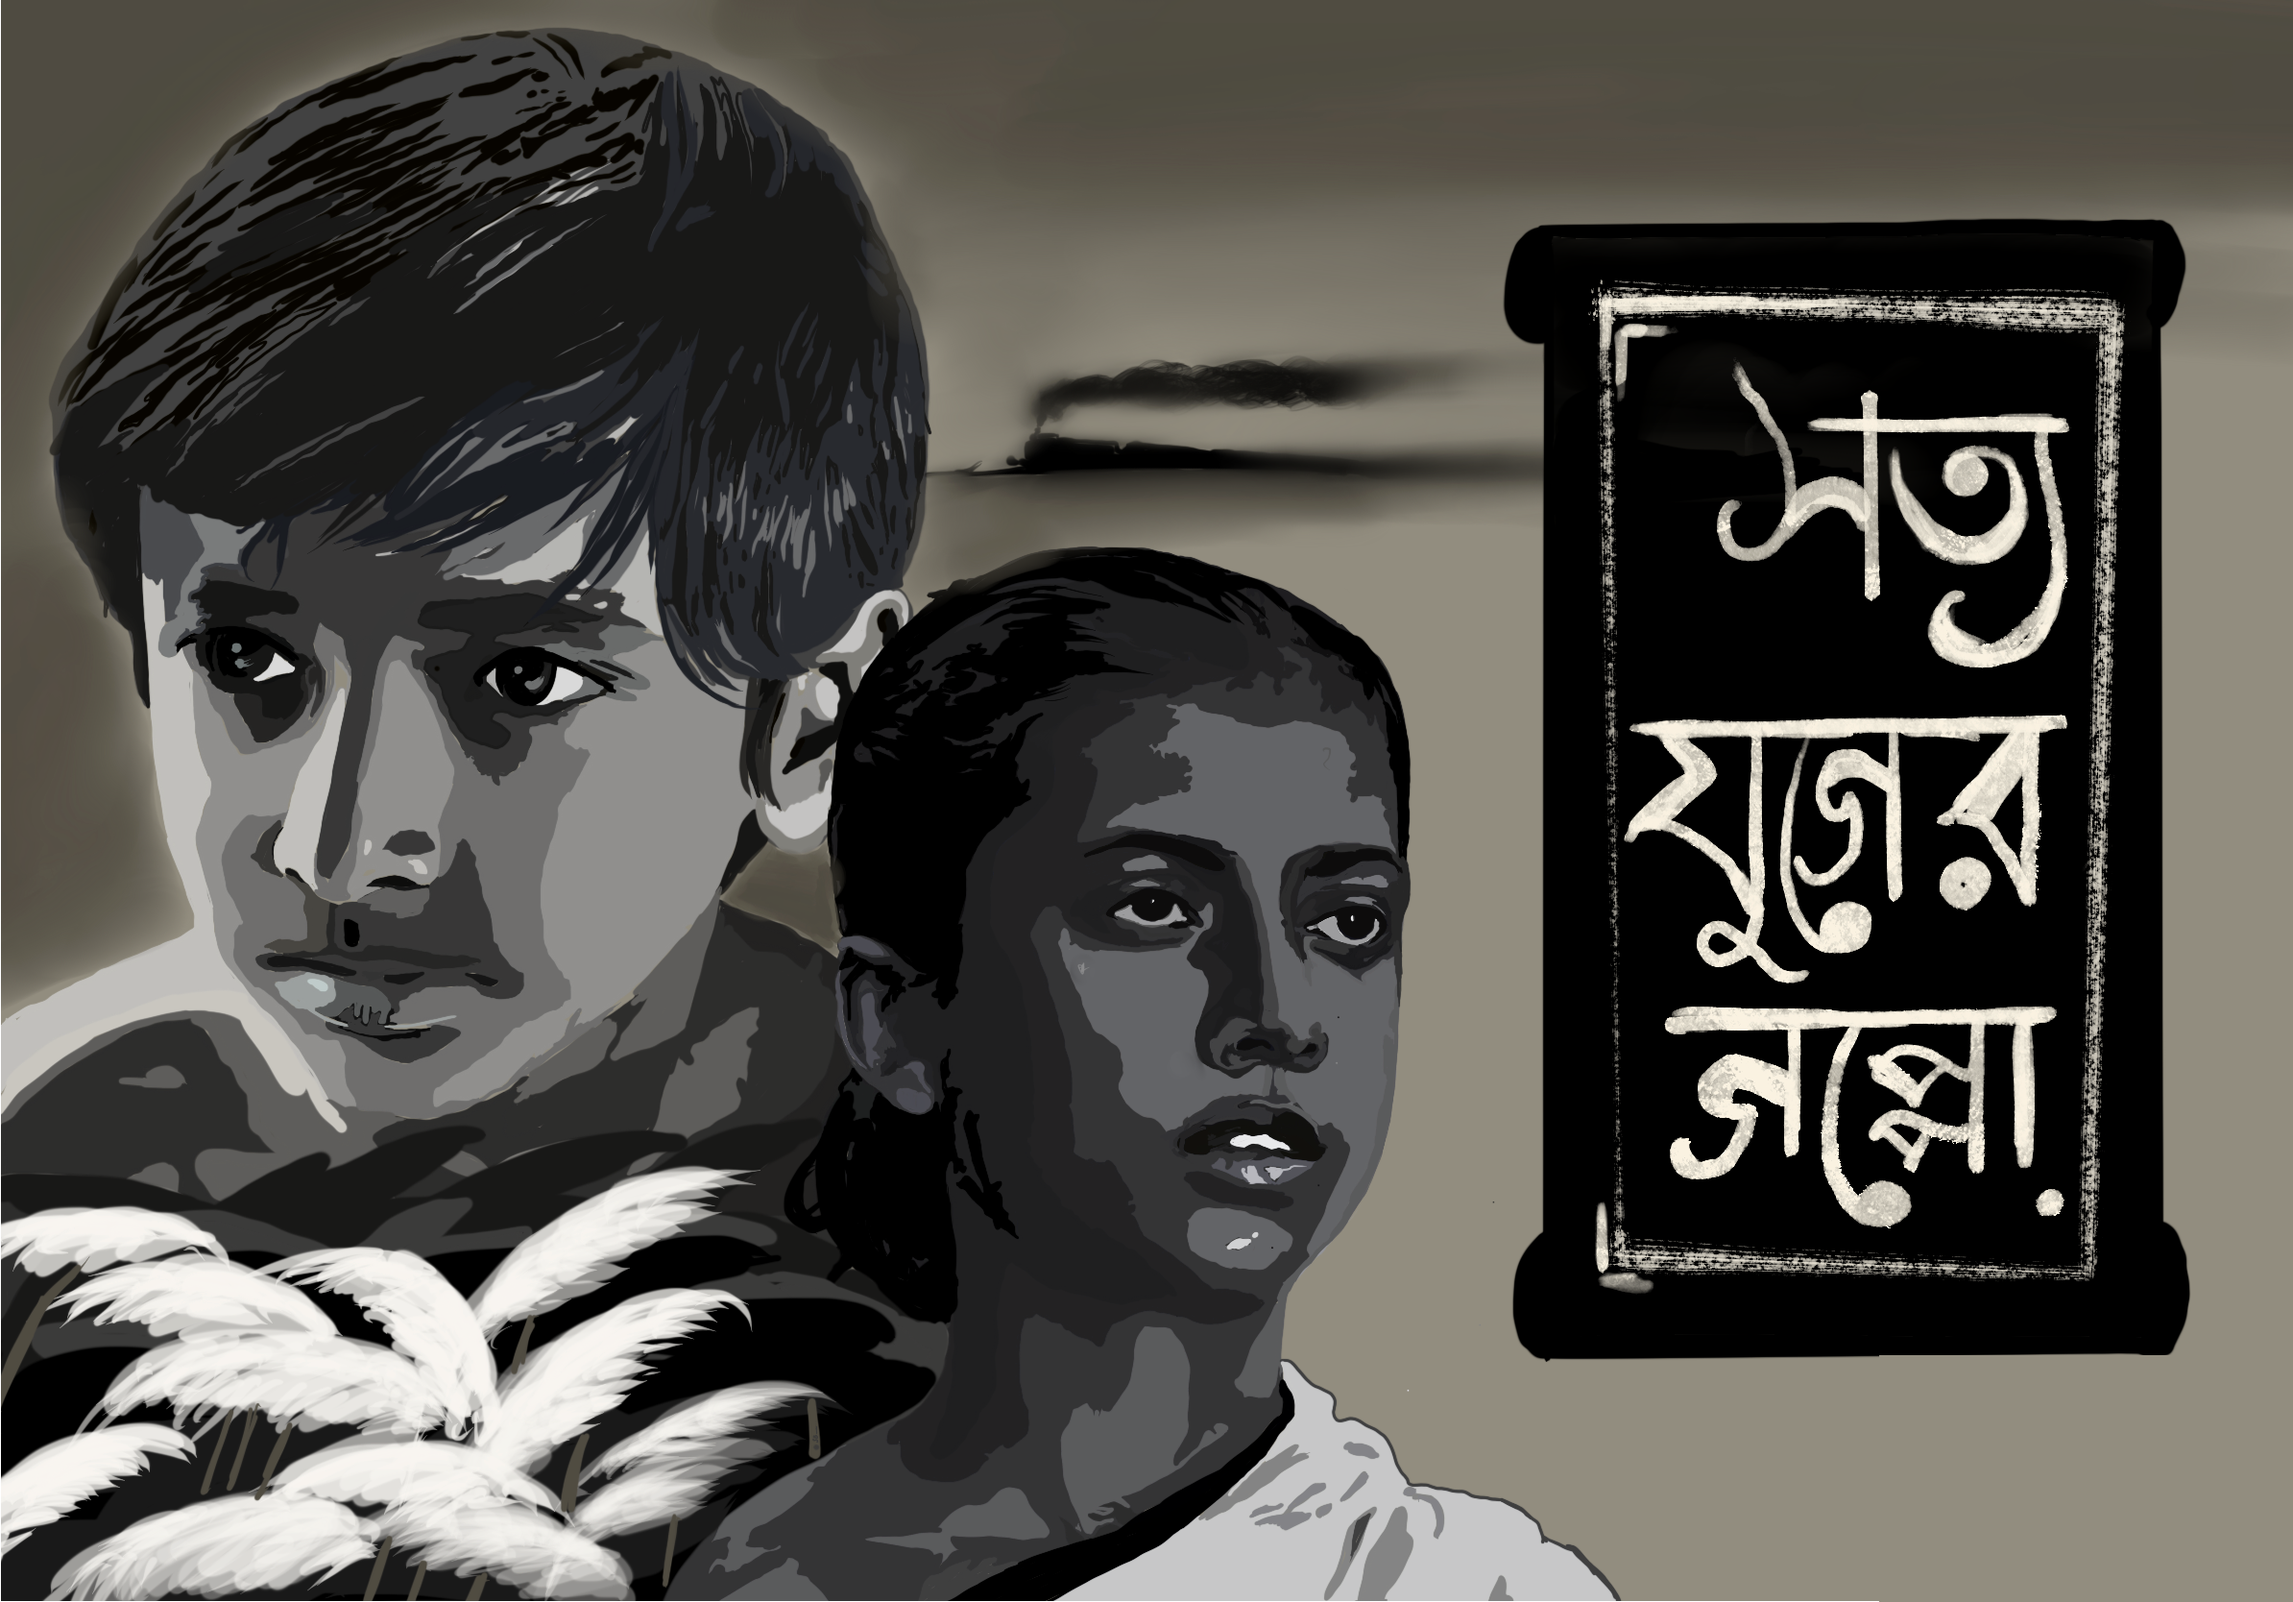
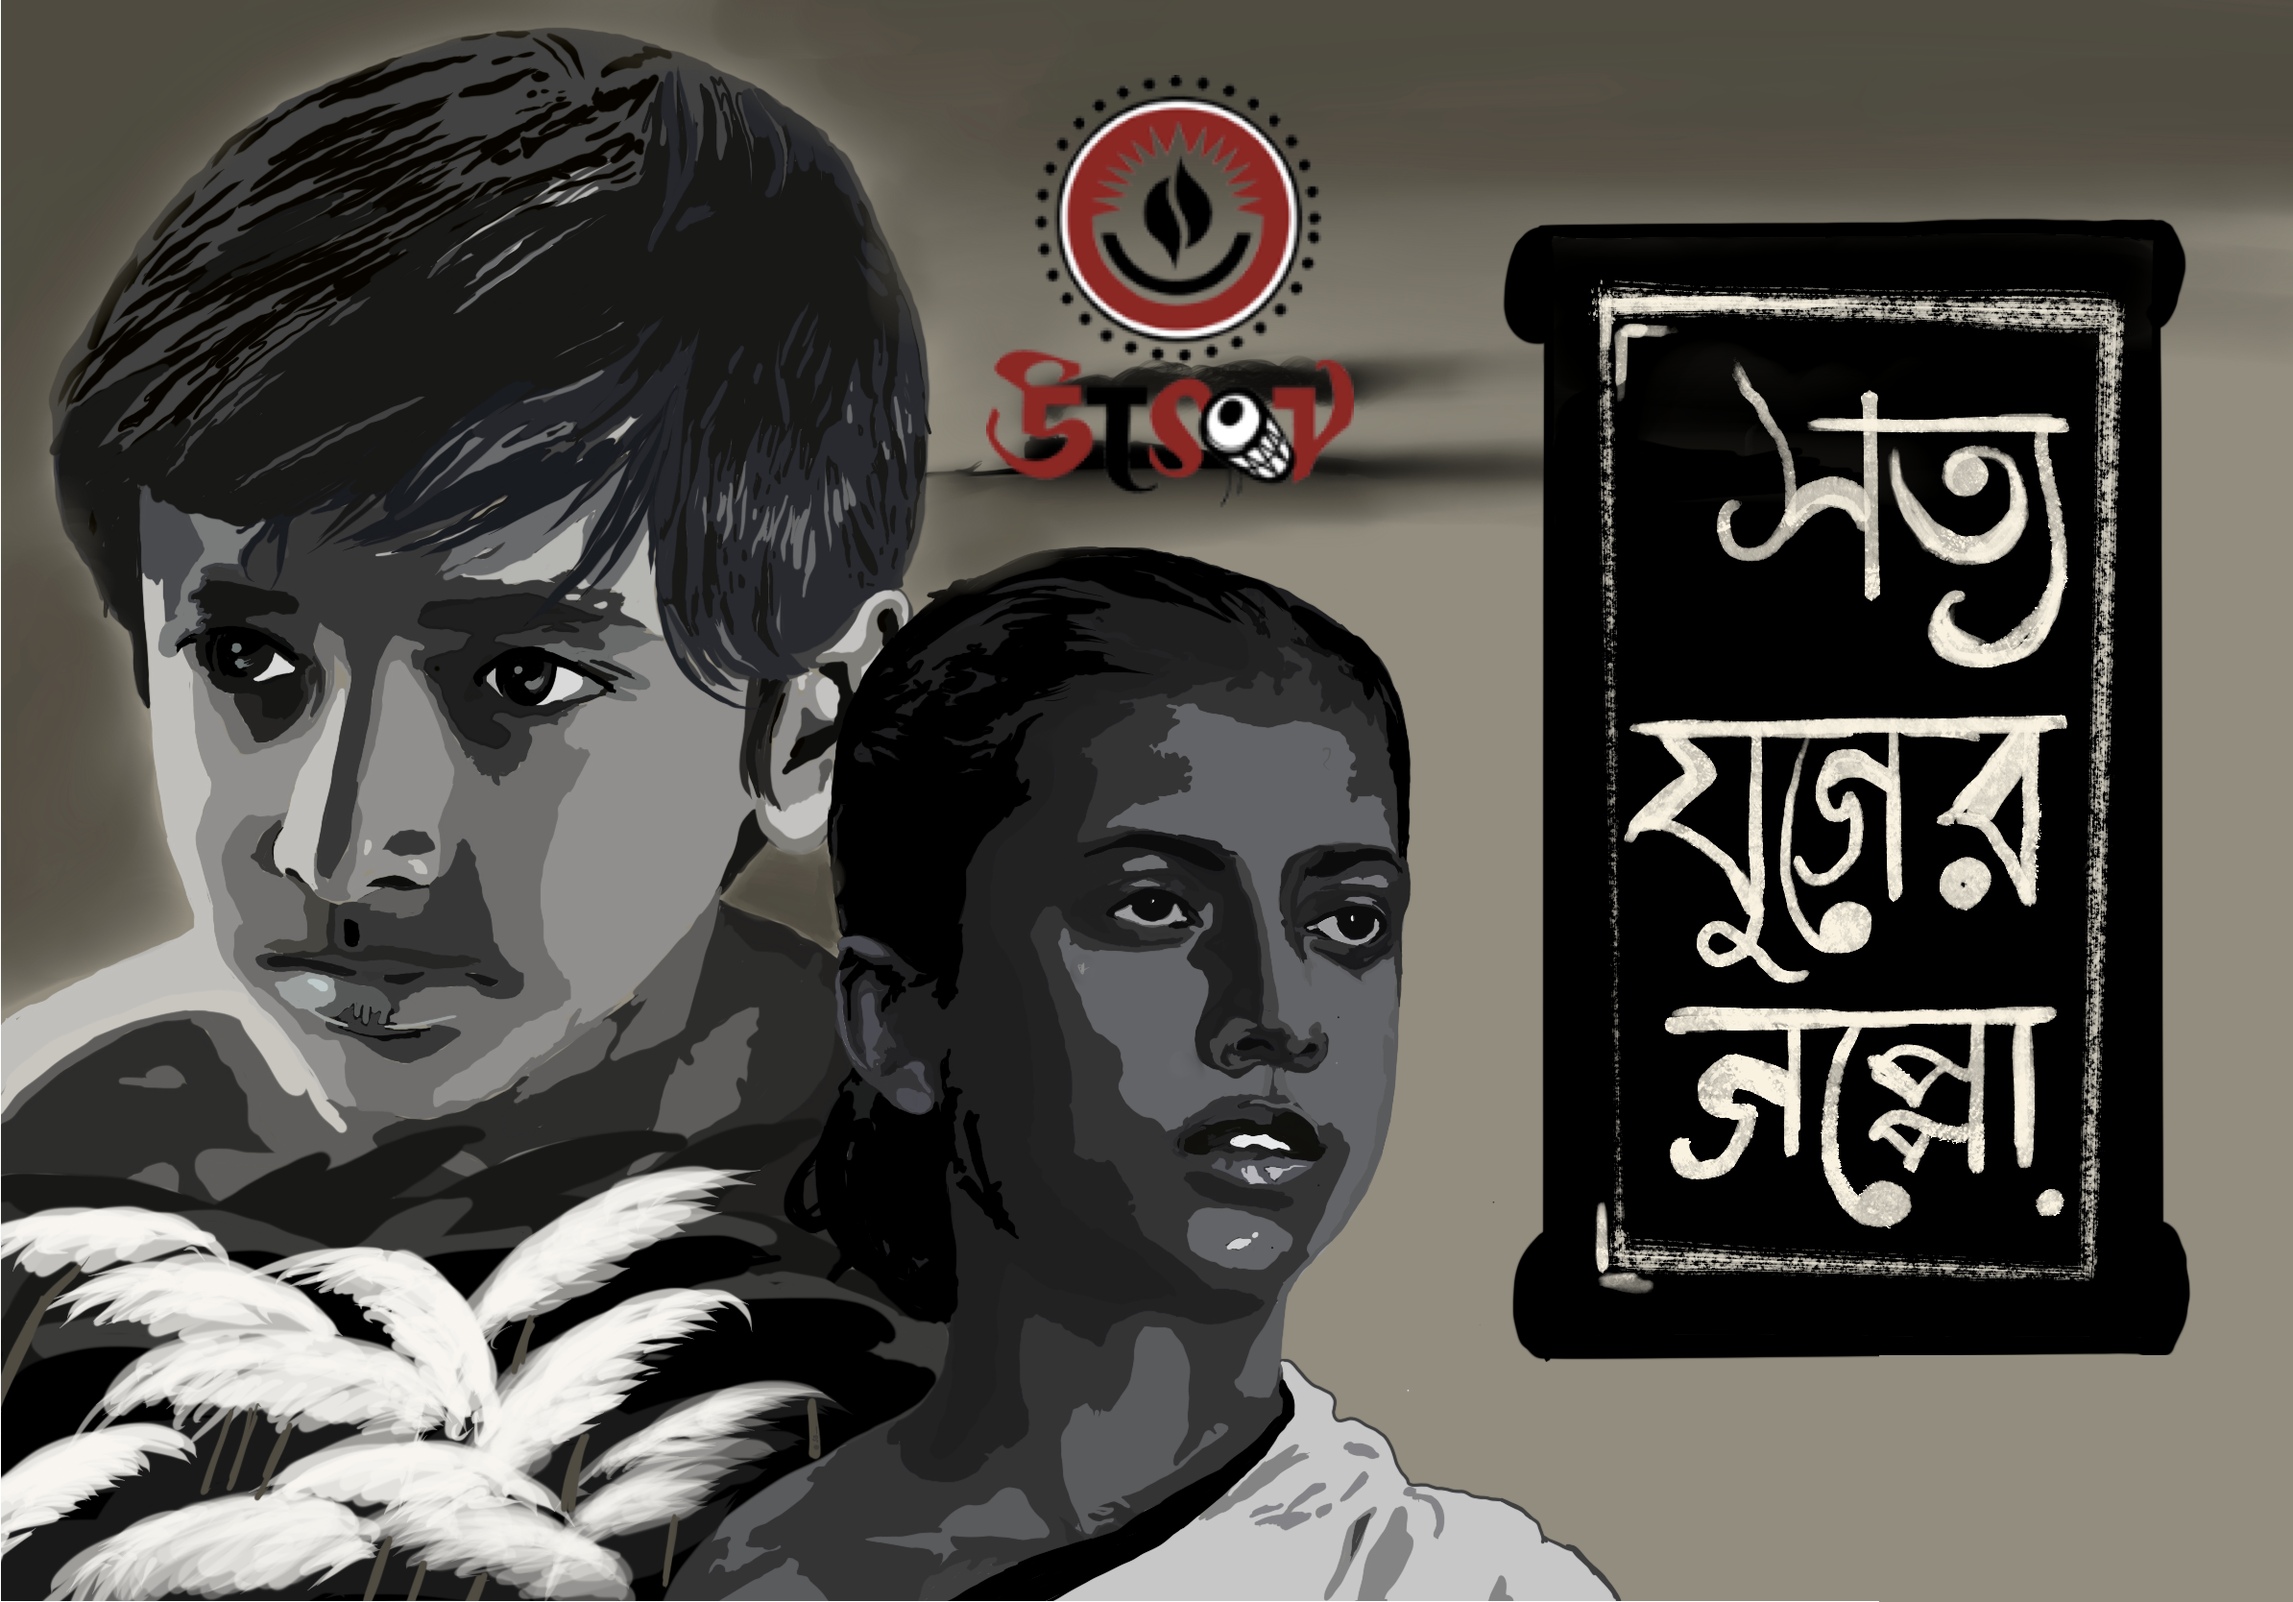
carousel changes

Changed region(s): [[0.4338, 0.0312, 0.5888, 0.3118]]

diff --git a/index.html b/index.html
@@ -112,7 +112,7 @@
                     <li data-target="#main_carousel" data-slide-to="2"></li>
                     <li data-target="#main_carousel" data-slide-to="3"></li>
                     <li data-target="#main_carousel" data-slide-to="4"></li>
-                    <!--li data-target="#main_carousel" data-slide-to="5"></li-->
+                    <li data-target="#main_carousel" data-slide-to="5"></li>
                 </ol>
 
                 <!-- Wrapper for slides -->
@@ -125,6 +125,12 @@
                     </div>
                     <div class="item">
                         <img src="img/carousel/2024/carousel7.jpg " alt="...">
+                        <div class="carousel-caption">
+                            <h2></h2>
+                        </div>
+                    </div>
+                    <div class="item">
+                        <img src="img/sponsors/utsov-collage-2024-v1.jpg" alt="...">
                         <div class="carousel-caption">
                             <h2></h2>
                         </div>
@@ -148,7 +154,6 @@
                             <h2>Join the Utsov Family</h2>
                         </div>
                     </div>
-                    
                 </div>
 
                 <!-- Controls -->
@@ -539,10 +544,12 @@
                     <p>Saberi Bhattacharya</p>
                     
                     <h4 class="featurette-heading">Sunday, October 13th</h4>
+                    <img class="featurette-image img-responsive img-thumbnail" src="img/sponsors/utsov-collage-2024-v2.jpg">
+                    <p>Utsov Home Production</p>
+                   
                     <a href="https://youtu.be/vSrwTyi806s" target="_blank">
                         <img class="featurette-image img-responsive img-thumbnail" src="img/krosswindz.png">
                     </a>
-                    
                     <p>Krosswindz</p>
 
                     <!-- <img class="featurette-image img-responsive img-thumbnail" src="img/tbhakta.jpg">
@@ -601,11 +608,19 @@ Join us this year in the mystical exploration of childhood, simpler times and wh
 
                         
                         <p>&nbsp;</p><p>&nbsp;</p><p>&nbsp;</p>
+                        <br>
+                        
                         <p>
                             Join us to celebrate the culture of India with Utsov's very own <mark>Talent & Fashion show</mark> by local performers.
-                            <br/><br/>
+                        </p>
+                        
+                        <p>&nbsp;</p><p>&nbsp;</p><p>&nbsp;</p><p>&nbsp;</p>
+                        <p>&nbsp;</p><p>&nbsp;</p><p>&nbsp;</p><p>&nbsp;</p>
+                        <p>&nbsp;</p><p>&nbsp;</p>
 
 
+
+                        <p>
                             <mark>Krosswindz</mark> is a Grassroot Grammy Award winning Folk-Fusion band, based in Kolkata, India. They have performed their music all over the globe for more than 20 years. Krosswindz have helped urbanize the folk music of West Bengal and India and have made it popular with their signature world music touch. Krosswindz is one of the few Kolkata based Bengali Folk-Rock bands who have a female singer on lead vocals. The band was formed in 1990, and started out playing at college festivals. They have toured all over the globe and have played at all the major Music festivals along the way.
                             <br/><br/>
                             Primarily a Folk-fusion band,focusing on world music with soulful songs,lyric oriented.Professionally  performing concerts all over the world for the last 20 years. Krosswindz is the music of Bengal and India with a blend of folk music traditions from around the world.The result- a potpouri of sounds deeply rooted in the soil that touches the heart and speaks the common language of humankind.
